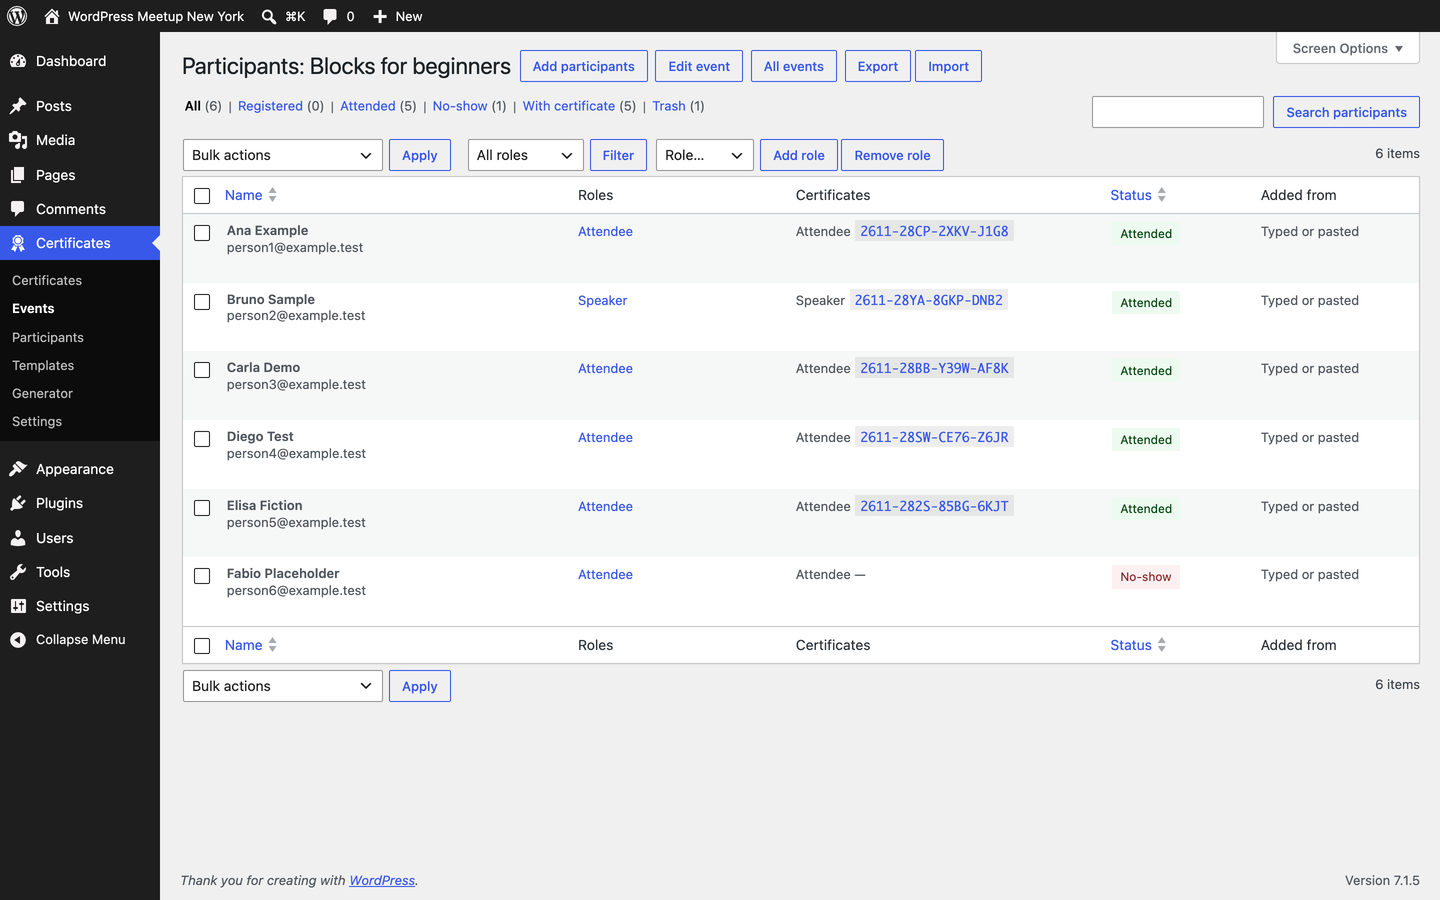
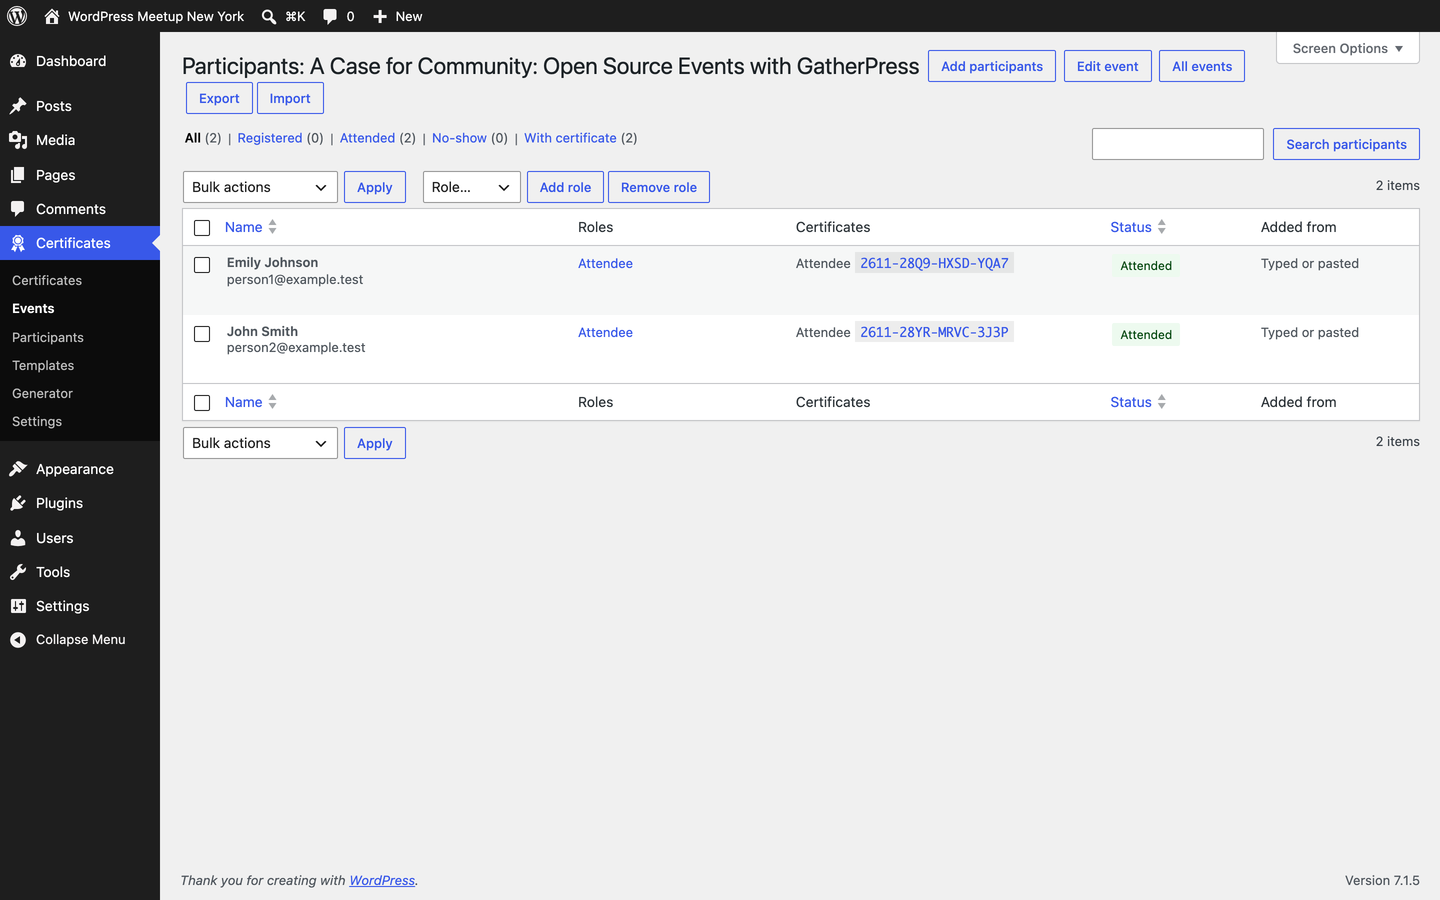
Screenshots: the meetup is the tutorial's sample with the Quick generator's two names; the public page with its tutorial folded; the editor with the inserter and the settings open (Colors expanded)

diff --git a/site/src/data/screenshots.ts b/site/src/data/screenshots.ts
@@ -25,11 +25,11 @@ export const screenshots: Screenshot[] = [
 	{ id: 'generator', scenario: 'standalone', locales: [ 'en' ], caption: 'The Generator: pick an event, preview each certificate, download.', path: '/wp-admin/admin.php?page=evcert-generator', sources: [ 'includes/events-generator.php', 'src/events-generator/', 'assets/scss/generator.scss' ], usedIn: [ 'start/first-certificate', 'catalog' ], wporg: true },
 	{ id: 'participants', scenario: 'standalone', locales: [ 'en' ], caption: 'The participants of an event, with the status, roles and certificates.', path: '/wp-admin/admin.php?page=evcert-event&event={event}&view=participants', sources: [ 'includes/events-admin.php', 'includes/class-people-table.php', 'assets/scss/events-admin.scss' ], usedIn: [ 'guides/events-and-participants', 'catalog' ], wporg: true },
 	{ id: 'certificates', scenario: 'standalone', locales: [ 'en' ], caption: 'The Certificates screen: issued, replaced and the Trash.', path: '/wp-admin/admin.php?page=evcert-certificate', sources: [ 'includes/admin.php', 'includes/class-list-table.php' ], usedIn: [ 'guides/verification', 'catalog' ], wporg: true },
-	{ id: 'editor', scenario: 'standalone', locales: [ 'en' ], caption: 'The template editor.', path: '/wp-admin/admin.php?page=evcert-template&design={design}&action=edit', sources: [ 'src/editor/', 'assets/scss/editor-screen.scss' ], usedIn: [ 'guides/templates', 'catalog' ], wporg: true },
+	{ id: 'editor', scenario: 'standalone', locales: [ 'en' ], caption: 'The template editor.', path: '/wp-admin/admin.php?page=evcert-template&design={design}&action=edit', scene: 'editor-panels', sources: [ 'src/editor/', 'assets/scss/editor-screen.scss' ], usedIn: [ 'guides/templates', 'catalog' ], wporg: true },
 	{ id: 'editor-selection', scenario: 'standalone', locales: [ 'en' ], caption: 'The template editor with several elements selected: the bar to group them, the layers and the options.', path: '/wp-admin/admin.php?page=evcert-template&design={design}&action=edit', scene: 'editor-select-all', sources: [ 'src/editor/', 'assets/scss/editor-screen.scss' ], usedIn: [ 'guides/group-elements' ] },
 	{ id: 'export', scenario: 'standalone', locales: [ 'en' ], caption: 'Export to a file.', path: '/wp-admin/admin.php?page=evcert-export', sources: [ 'includes/bundle-admin.php', 'assets/scss/transfer.scss' ], usedIn: [ 'guides/export-and-import', 'catalog' ], wporg: true },
 	{ id: 'settings', scenario: 'standalone', locales: [ 'en' ], caption: 'The settings and the certificate signature.', path: '/wp-admin/admin.php?page=evcert-options&tab=certificates', sources: [ 'includes/admin-settings.php', 'assets/scss/settings.scss' ], usedIn: [ 'guides/settings' ], wporg: true },
 	{ id: 'quick-admin', scenario: 'standalone', locales: [ 'en' ], caption: 'The Quick generator in the admin: paste names, pick a template, download.', path: '/wp-admin/admin.php?page=evcert-quick-generator', sources: [ 'includes/generator.php', 'src/quick-generator/', 'assets/scss/quick-generator.scss' ], usedIn: [ 'use-cases/meetup-quick-generator', 'catalog' ] },
-	{ id: 'public-generator', scenario: 'standalone', locales: [ 'en' ], caption: 'The public page where attendees type their name and download their certificate.', path: '/certificate-generator/', sources: [ 'includes/quick-generator.php', 'assets/es/quick-generator.js', 'assets/scss/quick-generator.scss' ], usedIn: [ 'use-cases/wordpress-meetup-public-generator', 'catalog' ] },
+	{ id: 'public-generator', scenario: 'standalone', locales: [ 'en' ], caption: 'The public page where attendees type their name and download their certificate.', path: '/certificate-generator/', scene: 'hide-tutorial', sources: [ 'includes/quick-generator.php', 'assets/es/quick-generator.js', 'assets/scss/quick-generator.scss' ], usedIn: [ 'use-cases/wordpress-meetup-public-generator', 'catalog' ] },
 	{ id: 'events', scenario: 'standalone', locales: [ 'en' ], caption: 'The events of a course, one per class.', path: '/wp-admin/admin.php?page=evcert-event', sources: [ 'includes/events-admin.php', 'assets/scss/events-admin.scss' ], usedIn: [ 'use-cases/course-with-classes' ] },
 ];

diff --git a/bin/demo/seed.php b/bin/demo/seed.php
@@ -66,41 +66,35 @@ $names = $br
 	? array( 'Ana Exemplo', 'Bruno Amostra', 'Carla Demonstração', 'Diego Teste', 'Elisa Ficção', 'Fábio Modelo', 'Gabi Maquete' )
 	: array( 'Ana Example', 'Bruno Sample', 'Carla Demo', 'Diego Test', 'Elisa Fiction', 'Fabio Placeholder', 'Gabi Mockup' );
 
-// The meetup: seven people, issued certificates, a correction and one in the Trash.
+// The meetup is the sample of the tutorial's pictures (the WordPress NYC group and its GatherPress talk) with the two names the Quick
+// generator's list shows as an example: what a person sees in the plugin's own examples is what the pictures show.
 $event = (int) Events\save(
 	array(
-		'title'     => $br ? 'Blocos para iniciantes' : 'Blocks for beginners',
-		'community' => $br ? 'Meetup WordPress Curitiba' : 'WordPress Meetup New York',
-		'start'     => '2026-11-14 09:00',
-		'end'       => '2026-11-14 12:00',
-		'venue'     => $br ? 'Biblioteca Exemplo' : 'Example Library',
-		'city'      => $br ? 'Curitiba' : 'New York',
-		'speakers'  => 'Sam Taylor',
-		'hours'     => '3',
+		'title'     => $br ? 'Blocos para iniciantes' : 'A Case for Community: Open Source Events with GatherPress',
+		'community' => $br ? 'Meetup WordPress Curitiba' : 'WordPress NYC Meetup Group',
+		'start'     => '2026-10-27 18:00',
+		'end'       => '2026-10-27 20:00',
+		'venue'     => $br ? 'Biblioteca Exemplo' : '166 Crosby Street',
+		'city'      => $br ? 'Curitiba' : 'New York, NY',
+		'speakers'  => $br ? 'Sam Taylor' : 'Mike Auteri',
+		'hours'     => '2',
 	)
 );
-foreach ( $names as $i => $name ) {
+foreach ( $br ? array( 'Ana Exemplo', 'Bruno Amostra' ) : array( 'Emily Johnson', 'John Smith' ) as $i => $name ) {
 	People\add(
 		$event,
 		array(
 			'name'   => $name,
 			'email'  => 'person' . ( $i + 1 ) . '@example.test',
-			'status' => $i < 5 ? 'attended' : ( 5 === $i ? 'no_show' : 'registered' ),
-			'roles'  => 1 === $i ? array( 'speaker' ) : array( 'attendee' ),
+			'status' => 'attended',
+			'roles'  => array( 'attendee' ),
 			'source' => 'manual',
 		)
 	);
 }
 foreach ( People\query( $event )['rows'] as $person ) {
-	if ( 'attended' === $person['status'] ) {
-		People\issue( $person, (string) array_key_first( $person['roles'] ) );
-	}
+	People\issue( $person, (string) array_key_first( $person['roles'] ) );
 }
-$first = People\query( $event, array( 'search' => 'Ana' ) )['rows'][0];
-Certificates\reissue( People\certificate( $first, 'attendee' ), array( 'name' => $br ? 'Ana Maria Exemplo' : 'Ana Maria Example' ) );
-$last = People\query( $event, array( 'search' => $br ? 'Gabi' : 'Gabi' ) )['rows'][0];
-People\trash( array( (int) $last['id'] ), $event );
-
 // The course: four classes, each its own event; the instructor is a speaker.
 $course = 0;
 foreach ( range( 1, 4 ) as $class ) {
@@ -141,6 +135,11 @@ foreach ( range( 1, 4 ) as $class ) {
 	// The classes already given have their certificates issued.
 	foreach ( People\query( $id )['rows'] as $person ) {
 		People\issue( $person, (string) array_key_first( $person['roles'] ) );
+	}
+	// A correction in the first class: the old certificate says it was replaced.
+	if ( 1 === $class ) {
+		$one = People\query( $id, array( 'search' => $br ? 'Ana' : 'Ana' ) )['rows'][0];
+		Certificates\reissue( People\certificate( $one, 'attendee' ), array( 'name' => $br ? 'Ana Maria Exemplo' : 'Ana Maria Example' ) );
 	}
 }
 
